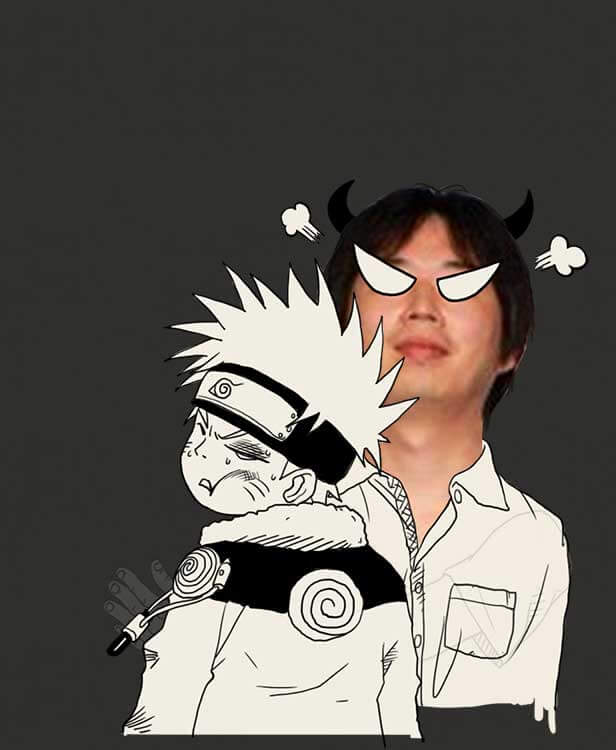
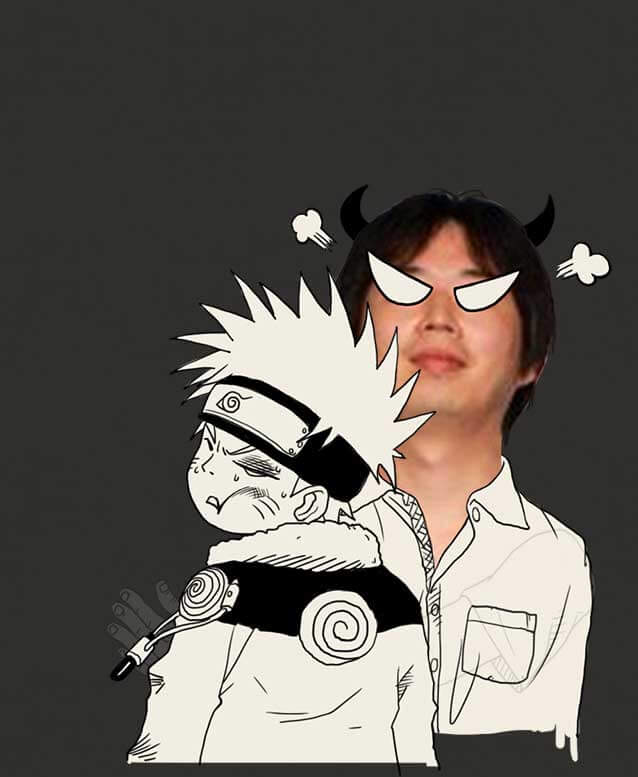
Modify P6 page

diff --git a/dist/index.html b/dist/index.html
@@ -22,7 +22,7 @@
 <body>
 
 <!-- 背景音乐   -->
-<audio src="assets/audio/bgm.mp3" autoplay  loop controls="controls" id="audio" style="display: none;"></audio>
+<audio src="assets/audio/bgm.mp3"  autoplay loop controls="controls" id="audio" style="display: none;"></audio>
 <audio src="assets/audio/button-201.mp3" controls="controls" id="audio2" style="display: none;"></audio>
 <img src="assets/images/m-img.png" class="mp3-box">
 <div class="loading_box">
@@ -209,7 +209,7 @@
 
             <div class="false_box alert_box true_box">
                 <img src="assets/images/error.png" style="width: 100%;top: 13.8%;">
-                <img src="assets/images/p4-alert-text.jpg" style="width: 64.2%;top: 20%;left: 16.5%">
+                <img src="assets/images/p4-alert-text.jpg" style="width: 46.2%;top: 21.7%;left: 24.5%">
             </div>
             <div class="bg_zz">
                 &nbsp;
@@ -220,8 +220,7 @@
         <div class="swiper-slide scene scene06">
             <!-- 分享链接 -->
             <img src="assets/images/p6-02.jpg" style="width: 78.2%;top: 6.3%;left: 10.7%;" class="p6-01">
-            <img src="assets/images/p6-people.jpg" style="width:68.2%;right: 8.3%;top: 18.2%" class="fenx_people">
-            <img src="assets/images/p6-text.png" style="width:78.2%;right: 12.3%;top: 5.6%" class="fenx_text ">
+            <img src="assets/images/p6-text.png" style="width:78.2%;right: 11.3%;top: 5.9%" class="fenx_text ">
             <a href="#" class="fenx_btn fx_btn1">
                 <img src="assets/images/p6-btn.png" style="width:77.1%;right: 12.3%;top: 57.9%" class="">
             </a>

diff --git a/index.html b/index.html
@@ -22,7 +22,7 @@
 <body>
 
 <!-- 背景音乐   -->
-<audio src="assets/audio/bgm.mp3" autoplay  loop controls="controls" id="audio" style="display: none;"></audio>
+<audio src="assets/audio/bgm.mp3"  autoplay loop controls="controls" id="audio" style="display: none;"></audio>
 <audio src="assets/audio/button-201.mp3" controls="controls" id="audio2" style="display: none;"></audio>
 <img src="assets/images/m-img.png" class="mp3-box">
 <div class="loading_box">
@@ -209,7 +209,7 @@
 
             <div class="false_box alert_box true_box">
                 <img src="assets/images/error.png" style="width: 100%;top: 13.8%;">
-                <img src="assets/images/p4-alert-text.jpg" style="width: 64.2%;top: 20%;left: 16.5%">
+                <img src="assets/images/p4-alert-text.jpg" style="width: 46.2%;top: 21.7%;left: 24.5%">
             </div>
             <div class="bg_zz">
                 &nbsp;
@@ -220,8 +220,7 @@
         <div class="swiper-slide scene scene06">
             <!-- 分享链接 -->
             <img src="assets/images/p6-02.jpg" style="width: 78.2%;top: 6.3%;left: 10.7%;" class="p6-01">
-            <img src="assets/images/p6-people.jpg" style="width:68.2%;right: 8.3%;top: 18.2%" class="fenx_people">
-            <img src="assets/images/p6-text.png" style="width:78.2%;right: 12.3%;top: 5.6%" class="fenx_text ">
+            <img src="assets/images/p6-text.png" style="width:78.2%;right: 11.3%;top: 5.9%" class="fenx_text ">
             <a href="#" class="fenx_btn fx_btn1">
                 <img src="assets/images/p6-btn.png" style="width:77.1%;right: 12.3%;top: 57.9%" class="">
             </a>

diff --git a/dist/assets/stylesheets/main.css b/dist/assets/stylesheets/main.css
@@ -199,17 +199,11 @@ input {
 }
 .scene06.swiper-slide-active .p6-01 {
   opacity: 1;
-  -webkit-animation: out 3s 1;
-  -webkit-animation-fill-mode: forwards;
-}
-.scene06.swiper-slide-active .fenx_people {
-  -webkit-animation: bounceIn8 .8s 1;
-  -webkit-animation-delay: 1.9s;
   -webkit-animation-fill-mode: forwards;
 }
 .scene06.swiper-slide-active .fenx_text {
-  -webkit-animation: bounceIn 1.5s 1;
-  -webkit-animation-delay: 1.9s;
+  -webkit-animation: bounceIn8 1.5s 1;
+  -webkit-animation-delay: 1.4s;
   -webkit-animation-fill-mode: forwards;
 }
 .scene04.swiper-slide-active .people—img {
@@ -401,7 +395,7 @@ input {
 .scene07.swiper-slide-active .index-body {
   background: url("../images/p7-01.jpg") no-repeat;
   background-size: 100%;
-  -webkit-animation: p7_bg .3s 9!important;
+  -webkit-animation: p7_bg .5s 8!important;
   -webkit-animation-fill-mode: forwards!important;
   -webkit-animation-delay: 1s!important;
 }

diff --git a/assets/stylesheets/main.less b/assets/stylesheets/main.less
@@ -226,17 +226,12 @@ input {
   }
   .p6-01{
     opacity: 1;
-    -webkit-animation: out 3s 1;
     -webkit-animation-fill-mode: forwards;
   }
-  .fenx_people{
-    -webkit-animation: bounceIn8 .8s 1;
-    -webkit-animation-delay: 1.9s;
-    -webkit-animation-fill-mode: forwards;
-  }
+
   .fenx_text{
-    -webkit-animation: bounceIn 1.5s 1;
-    -webkit-animation-delay: 1.9s;
+    -webkit-animation: bounceIn8 1.5s 1;
+    -webkit-animation-delay: 1.4s;
     -webkit-animation-fill-mode: forwards;
   }
 }
@@ -440,7 +435,7 @@ input {
   .index-body{
     background:url("../images/p7-01.jpg") no-repeat;
     background-size: 100%;
-    -webkit-animation: p7_bg .3s 9!important;
+    -webkit-animation: p7_bg .5s 8!important;
     -webkit-animation-fill-mode: forwards!important;
     -webkit-animation-delay: 1s!important;
   }

diff --git a/dist/assets/stylesheets/main.less b/dist/assets/stylesheets/main.less
@@ -226,17 +226,12 @@ input {
   }
   .p6-01{
     opacity: 1;
-    -webkit-animation: out 3s 1;
     -webkit-animation-fill-mode: forwards;
   }
-  .fenx_people{
-    -webkit-animation: bounceIn8 .8s 1;
-    -webkit-animation-delay: 1.9s;
-    -webkit-animation-fill-mode: forwards;
-  }
+
   .fenx_text{
-    -webkit-animation: bounceIn 1.5s 1;
-    -webkit-animation-delay: 1.9s;
+    -webkit-animation: bounceIn8 1.5s 1;
+    -webkit-animation-delay: 1.4s;
     -webkit-animation-fill-mode: forwards;
   }
 }
@@ -440,7 +435,7 @@ input {
   .index-body{
     background:url("../images/p7-01.jpg") no-repeat;
     background-size: 100%;
-    -webkit-animation: p7_bg .3s 9!important;
+    -webkit-animation: p7_bg .5s 8!important;
     -webkit-animation-fill-mode: forwards!important;
     -webkit-animation-delay: 1s!important;
   }

diff --git a/assets/scripts/main.js b/assets/scripts/main.js
@@ -102,7 +102,6 @@ var app = {
             'p7-btn2.png',
             'p6-btn.png',
             'p6-btn2.png',
-            'p6-people.jpg',
             'p7-ko.png',
             'p6-text.png',
             'p6-02.jpg'
@@ -121,7 +120,7 @@ var app = {
                 if( loading_val< 68 ){
                     loading_val +=1;
                 }
-                if( loading_val >67 ){
+                if( loading_val >66 ){
                     var timenumber = 0
                     /* loading animation */
                     var settime = setInterval(function(){

diff --git a/dist/assets/scripts/main.js b/dist/assets/scripts/main.js
@@ -102,7 +102,6 @@ var app = {
             'p7-btn2.png',
             'p6-btn.png',
             'p6-btn2.png',
-            'p6-people.jpg',
             'p7-ko.png',
             'p6-text.png',
             'p6-02.jpg'
@@ -121,7 +120,7 @@ var app = {
                 if( loading_val< 68 ){
                     loading_val +=1;
                 }
-                if( loading_val >67 ){
+                if( loading_val >66 ){
                     var timenumber = 0
                     /* loading animation */
                     var settime = setInterval(function(){
